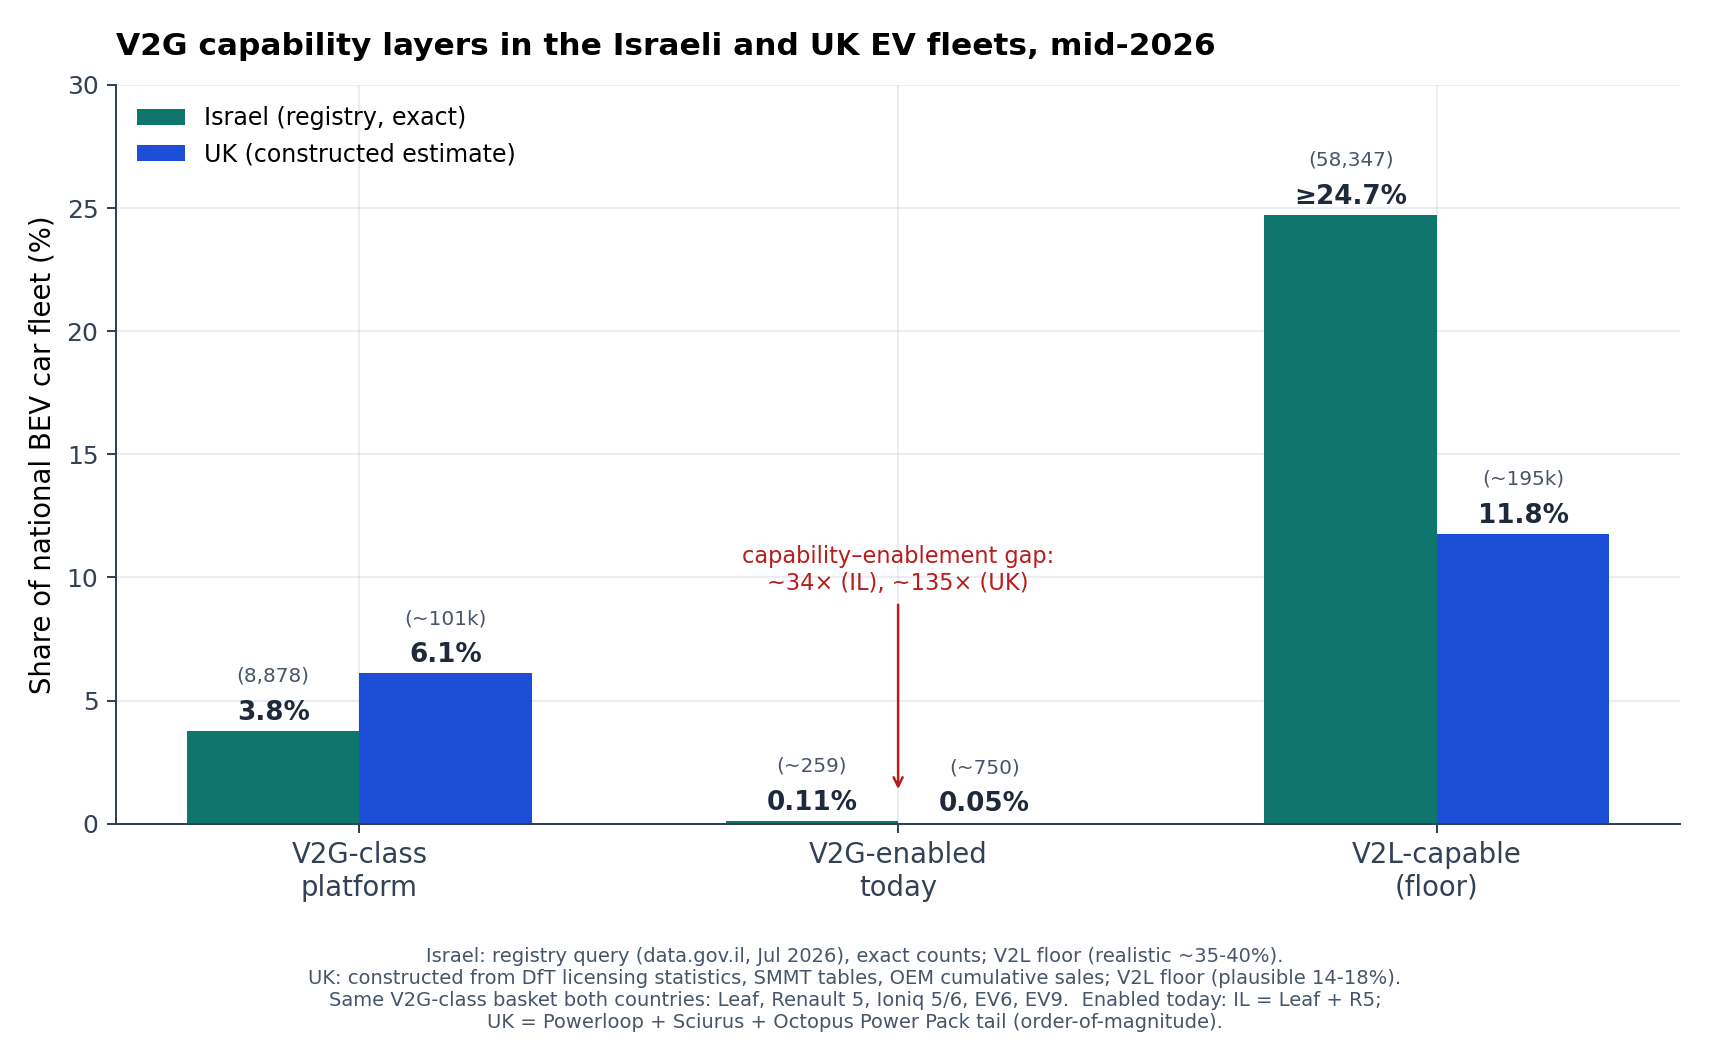
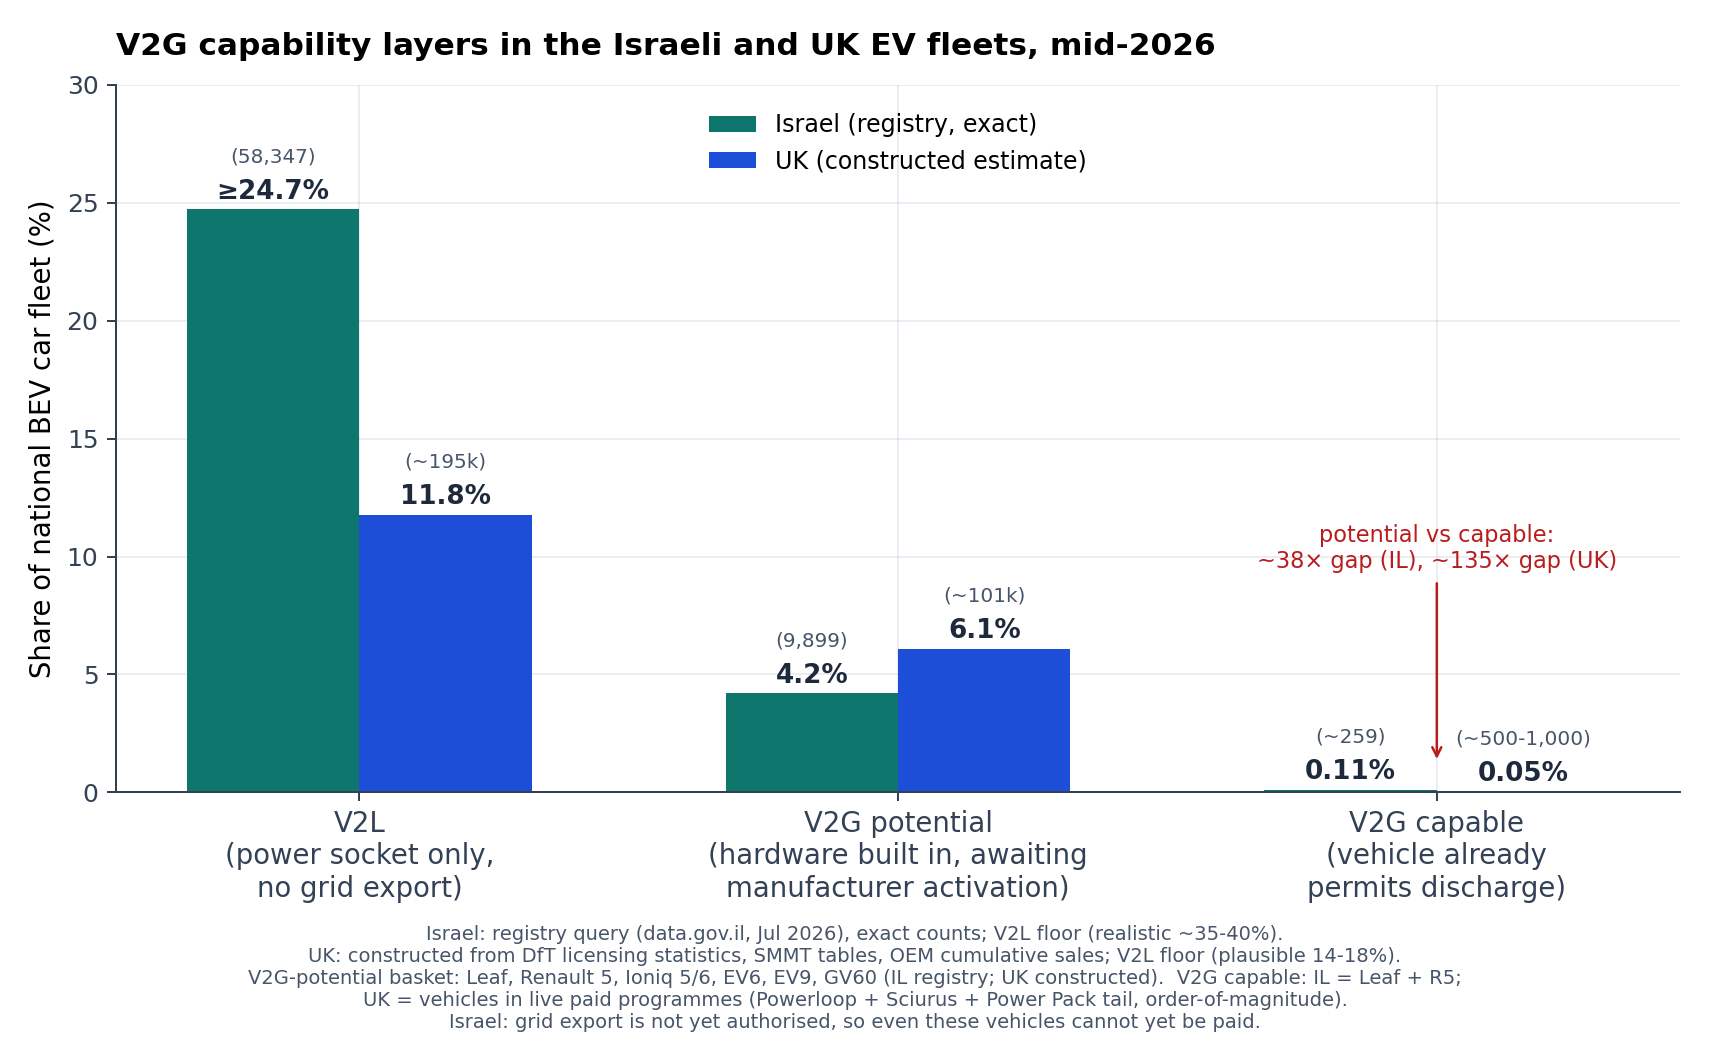
Fig 5.1: rename capability layers, add missed GV60  - Layers renamed to V2L / V2G potential / V2G capable (clearer terms)   and reordered V2L -> potential -> capable - Completeness re-check of registry query found Genesis GV60 (E-GMP):   1,021 EVs missing from the V2G-potential basket - IL V2G poten

diff --git a/src/plot_w12z_capability_ilvuk.py b/src/plot_w12z_capability_ilvuk.py
@@ -1,10 +1,10 @@
 """Fleet capability composition: Israel vs UK, three layers.
 
-Shares of each country's BEV car fleet that are (i) V2G-class platform
-hardware, (ii) V2G-enabled today (commercially able to discharge), and
-(iii) V2L-capable (counted floor).  The V2G-capable buckets use the SAME
-model basket in both countries (Leaf, Renault 5, Ioniq 5/6, EV6, EV9)
-so the comparison is like-for-like.
+Shares of each country's BEV car fleet that are (i) V2L (power socket
+only), (ii) V2G potential (hardware built in, awaiting manufacturer
+activation), and (iii) V2G capable (vehicle already permits discharge).
+The V2G-potential basket is the SAME in both countries (Leaf, Renault 5,
+Ioniq 5/6, EV6, EV9, GV60) so the comparison is like-for-like.
 
 Data provenance:
   Israel: data/il_registry_ev_counts_2026-07.csv - full national vehicle
@@ -31,18 +31,21 @@ OUT = (Path(__file__).resolve().parent.parent
 
 # Shares of the national BEV car fleet (percent).
 # Israel denominators: 235,933 EVs (registry).  UK: ~1,656,000 BEV cars (DfT).
+L_V2L = "V2L\n(power socket only,\nno grid export)"
+L_POT = "V2G potential\n(hardware built in, awaiting\nmanufacturer activation)"
+L_CAP = "V2G capable\n(vehicle already\npermits discharge)"
 DATA = {
-    #                 Israel            UK
-    "V2G-class\nplatform":   (8878 / 235933 * 100,   101000 / 1656000 * 100),
-    "V2G-enabled\ntoday":    (259  / 235933 * 100,   750    / 1656000 * 100),
-    "V2L-capable\n(floor)":  (58347 / 235933 * 100,  195000 / 1656000 * 100),
+    #        Israel                   UK
+    L_V2L: (58347 / 235933 * 100, 195000 / 1656000 * 100),
+    L_POT: (9899 / 235933 * 100,  101000 / 1656000 * 100),
+    L_CAP: (259 / 235933 * 100,   750 / 1656000 * 100),
 }
 COUNTS = {
-    "V2G-class\nplatform":  ("8,878", "~101k"),
-    "V2G-enabled\ntoday":   ("~259", "~750"),
-    "V2L-capable\n(floor)": ("58,347", "~195k"),
+    L_V2L: ("58,347", "~195k"),
+    L_POT: ("9,899", "~101k"),
+    L_CAP: ("~259", "~500-1,000"),
 }
-FLOOR = {"V2L-capable\n(floor)"}
+FLOOR = {L_V2L}
 
 
 def main() -> None:
@@ -78,10 +81,10 @@ def main() -> None:
     ax.set_ylim(0, 30)
     ax.set_title("V2G capability layers in the Israeli and UK EV fleets, "
                  "mid-2026")
-    ax.legend(loc="upper left")
+    ax.legend(loc="upper center", bbox_to_anchor=(0.5, 0.99))
 
-    ax.annotate("capability–enablement gap:\n~34× (IL), ~135× (UK)",
-                xy=(1.0, 1.2), xytext=(1.0, 9.5),
+    ax.annotate("potential vs capable:\n~38× gap (IL), ~135× gap (UK)",
+                xy=(2.0, 1.2), xytext=(2.0, 9.5),
                 ha="center", fontsize=9, color=PALETTE["cost"],
                 arrowprops=dict(arrowstyle="->", color=PALETTE["cost"],
                                 linewidth=1.0))
@@ -89,8 +92,9 @@ def main() -> None:
     fig.text(0.5, 0.015,
              "Israel: registry query (data.gov.il, Jul 2026), exact counts; V2L floor (realistic ~35-40%).\n"
              "UK: constructed from DfT licensing statistics, SMMT tables, OEM cumulative sales; V2L floor (plausible 14-18%).\n"
-             "Same V2G-class basket both countries: Leaf, Renault 5, Ioniq 5/6, EV6, EV9.  Enabled today: IL = Leaf + R5;\n"
-             "UK = Powerloop + Sciurus + Octopus Power Pack tail (order-of-magnitude).",
+             "V2G-potential basket: Leaf, Renault 5, Ioniq 5/6, EV6, EV9, GV60 (IL registry; UK constructed).  V2G capable: IL = Leaf + R5;\n"
+             "UK = vehicles in live paid programmes (Powerloop + Sciurus + Power Pack tail, order-of-magnitude).\n"
+             "Israel: grid export is not yet authorised, so even these vehicles cannot yet be paid.",
              ha="center", fontsize=7.8, color=PALETTE["neutral"])
 
     fig.tight_layout(rect=(0, 0.11, 1, 1))

diff --git a/src/plot_w12ae_soc_week.py b/src/plot_w12ae_soc_week.py
@@ -28,14 +28,15 @@ def run_agent(typology, hours=HOURS_IN_WEEK):
     agent = EVAgent(agent_id=1, typology=typology,
                     counterfactual=COUNTERFACTUAL_V2G, country="Israel")
     agent.state.v2g_opted_in = True
-    soc_trace = []
+    soc_trace, away = [], []
     for h in range(hours):
         hod, dow, month = hour_to_calendar(h)
         p = price_at_hour(hod, dow, month)
         agent.step(current_hour=h, current_price_per_kwh=p,
                    month=month, discharge_revenue_per_kwh=None)
         soc_trace.append(agent.state.soc * 100)
-    return soc_trace
+        away.append(getattr(agent.state, "location", "home") != "home")
+    return soc_trace, away
 
 
 def main() -> None:
@@ -50,9 +51,21 @@ def main() -> None:
     axes = axes.flatten()
 
     for ax, (typology, label, color) in zip(axes, typologies):
-        trace = run_agent(typology)
+        trace, away = run_agent(typology)
         hours = list(range(len(trace)))
-        ax.plot(hours, trace, color=color, linewidth=2, label=label)
+        # shade the hours the vehicle is actually away from home (model log)
+        start = None
+        first_span = True
+        for i, a in enumerate(away + [False]):
+            if a and start is None:
+                start = i
+            elif not a and start is not None:
+                ax.axvspan(start, i, color="#94a3b8", alpha=0.18,
+                           label="away from home" if first_span else None)
+                first_span = False
+                start = None
+        ax.plot(hours, trace, color=color, linewidth=2, label=label,
+                drawstyle="steps-post")
         ax.axhline(50, color="#b91c1c", linestyle="--", linewidth=1,
                    label="V2G floor 50%")
         ax.axhline(30, color="#d97706", linestyle=":", linewidth=1,
@@ -72,6 +85,13 @@ def main() -> None:
                      fontsize=12, fontweight="bold", color=color)
         ax.grid(True, alpha=0.3)
         ax.legend(fontsize=8, loc="lower right")
+
+    # annotate the BEV return-hour step (arrival + first charging hour)
+    bev_ax = axes[1]
+    bev_ax.annotate("returns at 80 %,\ncharges 16:00-17:00,\ndischarges from 17:00",
+                    xy=(16, 89), xytext=(30, 66), fontsize=9,
+                    color="#1d4ed8",
+                    arrowprops=dict(arrowstyle="->", color="#1d4ed8", linewidth=1))
 
     fig.suptitle("Figure 4.1  -  Battery SoC over one representative week, "
                  "by typology (Israel V2G, July)",

diff --git a/src/plot_w13c_model_diagrams.py b/src/plot_w13c_model_diagrams.py
@@ -35,8 +35,8 @@ digraph flow {{
   hour  [label=<<B>Hour h&nbsp; (1 &hellip; 8,760)</B>>,
          fillcolor="{TEALF}", color="{TEAL}"];
   agg   [label=<<B>AggregatorAgent</B><BR/><BR/>queries the pricing module: is hour h inside the tariff peak window?<BR/>if yes, the discharge signal fires for h>];
-  mob   [label=<<B>EVAgent mobility update</B> &nbsp;<I>(each agent, fixed order)</I><BR/><BR/>depart / drive / return per typology schedule;<BR/>trip energy drawn from state of charge>];
-  dec   [label=<<B>Charging / discharging decision</B> &nbsp;<I>(counterfactual rule)</I><BR/><BR/>V0: charge at 7.0 kW when plugged and SoC below the typology target<BR/>(Wong Table 1; 89.2 % for the Daily Charger)<BR/>V1G: charge off-peak only, departure-aware target<BR/>V2G: V1G charging + six-condition discharge gate (Figure 3.2);<BR/>opted-in agents cap charging at 90 % SoC>];
+  mob   [label=<<B>EVAgent mobility update</B><BR/><BR/>each agent departs, drives and returns per its typology schedule;<BR/>trip energy is drawn from the state of charge>];
+  dec   [label=<<B>Charging / discharging decision</B> &nbsp;<I>(counterfactual rule)</I><BR/><BR/>V0: charge at 7.0 kW when plugged and SoC below the typology target<BR/>(Wong Table 1; 89.2 % for the Daily Charger)<BR/>V1G: charge off-peak only, departure-aware target<BR/>V2G: V1G charging + five-condition discharge gate (Figure 3.2),<BR/>discharging at 9.6 kW down to the 50 % SoC floor;<BR/>opted-in agents cap charging at 90 % SoC>];
   grid  [label=<<B>GridAgent feeder check</B><BR/><BR/>can_charge / can_discharge against transformer kVA<BR/>(household baseline load included)>];
   commit[label=<<B>Commit action</B><BR/><BR/>energy, revenue / cost recorded; feeder net load updated>];
   aging [label=<<B>Battery health update</B><BR/><BR/>calendar + cycle aging applied to state of health>];
@@ -81,7 +81,7 @@ digraph sm {{
   plugged -> driving  [label="departure hour (unplug)  "];
   plugged -> charging [label="charging rule fires\\n(V0: SoC below target;\\nV1G/V2G: off-peak)  "];
   charging -> plugged [label="  target reached"];
-  plugged -> discharging [label="  six-condition gate TRUE\\n  (signal, opt-in, capable,\\n  SoC over 50 %, price at or\\n  above OSP, retailer match)"];
+  plugged -> discharging [label="  five-condition gate TRUE\\n  (signal, opt-in, capable,\\n  SoC over 50 %,\\n  price at or above OSP)"];
   discharging -> plugged [label="signal ends, SoC at 50 %,\\nor feeder denial  "];
 }}
 """
